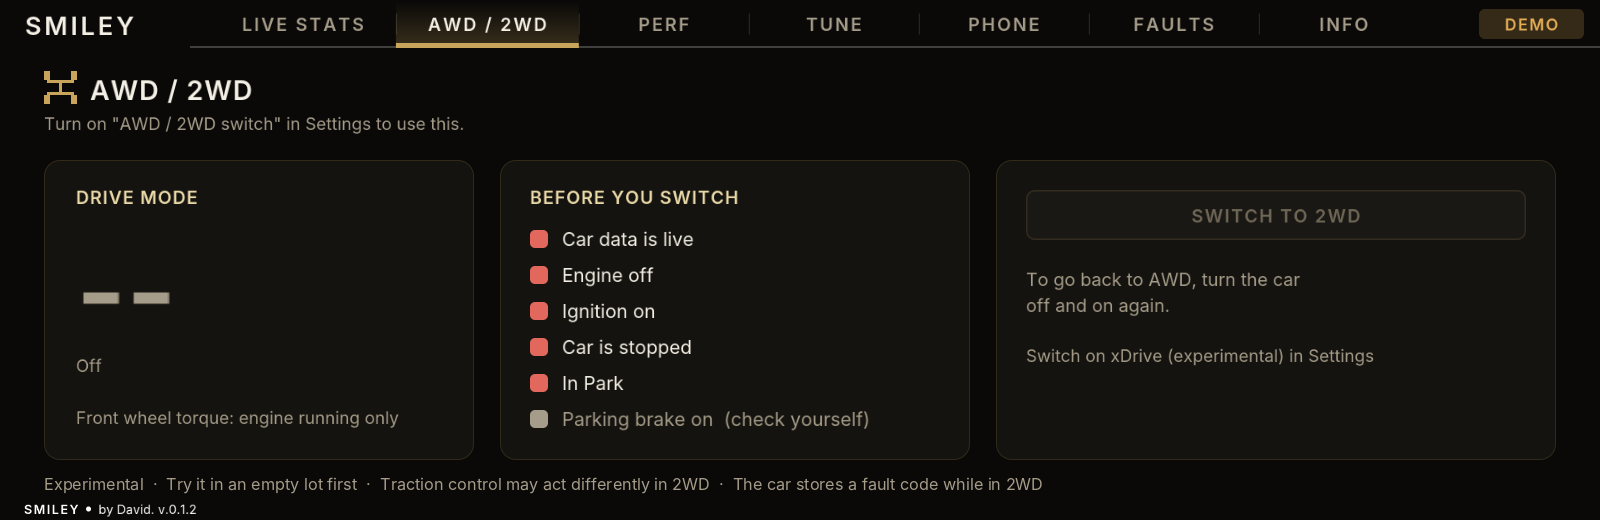
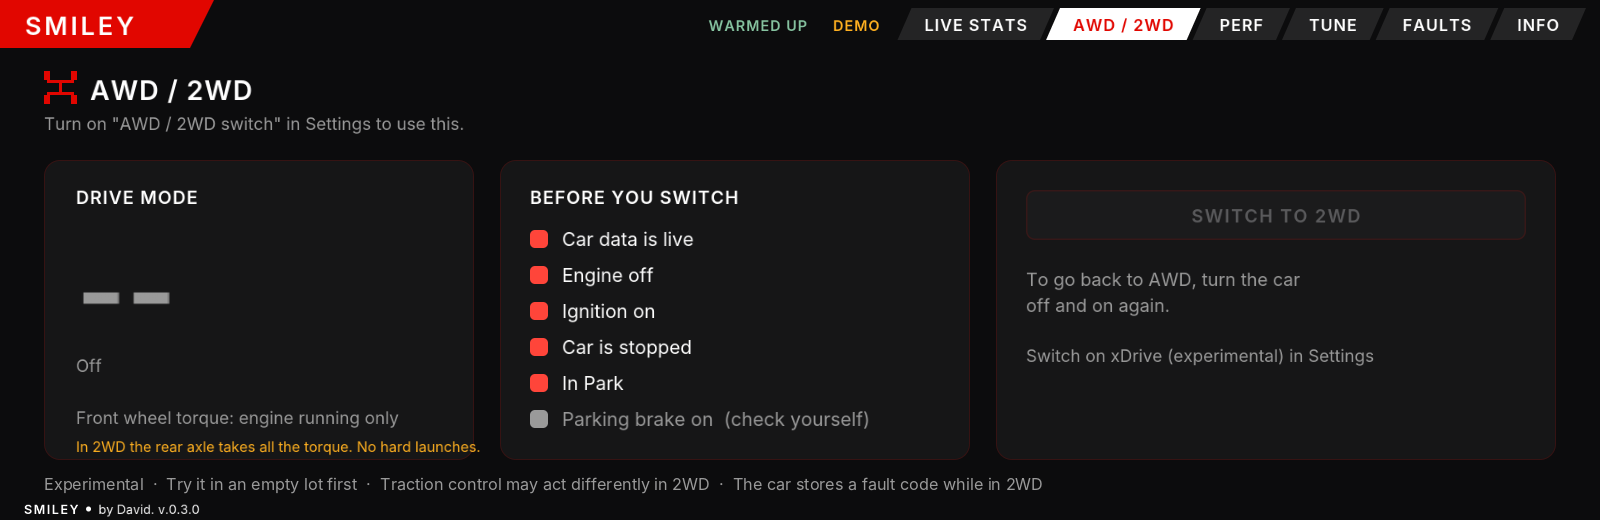
README: Slash as the default look, new screenshots, warm-up timer and Car view additions

diff --git a/README.md b/README.md
@@ -10,7 +10,7 @@ An app for the iDrive 7 head unit (MGU) &nbsp;·&nbsp; Version 0.3.0 &nbsp;·&nb
 
 [Take the tour](#the-tour) &nbsp;·&nbsp; [Themes](#ten-looks) &nbsp;·&nbsp; [Connect / Flash beta](#connect-and-flash-beta) &nbsp;·&nbsp; [Install](#install) &nbsp;·&nbsp; [Read this first](#read-this-first)
 
-<img src="docs/screenshots/live-stats.png" alt="Live Stats: six engine gauges, signal bars for the fast readings and dials for the rest">
+<img src="docs/screenshots/slash.png" alt="Live Stats in the Slash look: the gear on a red slab, six readings beside it">
 
 </div>
 
@@ -34,6 +34,11 @@ screenshots come from the simulation, with demo data.
 
 ### Live Stats
 
+A new install opens on the **Slash** screen shown at the top of this page:
+the gear as tall as the screen, with engine speed, horsepower, boost, torque,
+oil and coolant beside it and the revs as one slanted bar. The Layout button
+steps on to the six-gauge page described here and the other layouts.
+
 Two pages of six gauges, three across and two down. The fast readings (RPM,
 boost, boost target, engine load and torque) are signal bars that light up
 green to red like a phone's signal meter; the rest are round dials with a thick band and their lowest and highest value beside
@@ -54,6 +59,11 @@ scale. Tap anywhere to go back.
 blue while the engine is cold, amber while it warms up, green once it is
 ready.
 
+**Warm-up timer and turbo cool-down.** Beside the warm-up light the header
+shows about how many minutes until the oil is warm and the revs to keep under
+until then. After hard driving it counts down how long to drive gently before
+switching off.
+
 **Smoother gauges.** The fast gauges on screen are asked for together in one
 request, so each one is refreshed more often. If the car does not answer that
 way, the app goes back to asking one at a time by itself.
@@ -65,10 +75,13 @@ way, the app goes back to asking one at a time by itself.
 
 ### Live Stats layouts
 
-Settings → Live Stats layout offers four more ways to see the same readings.
-The six gauges are the default and their page is unchanged. In the other
-layouts a Layout button steps on to the next one and back to the six gauges,
-and a tap on any reading opens it in big number mode.
+Settings → Live Stats layout offers six ways to see the same readings. Slash
+is the default since 0.3.0. A Layout button steps through them in turn (the
+six-gauge page has none: pick another layout in Settings to leave it), and a
+tap on any reading opens it in big number mode.
+
+- **Slash**: the gear on a red slab, six readings and a slanted rev bar.
+- **Six gauges**: the two pages of gauges described above.
 
 - **Cockpit**: one large RPM ring with boost inside it and four readings
   around it.
@@ -76,7 +89,9 @@ and a tap on any reading opens it in big number mode.
 - **Graph view**: the last 30 seconds of each reading as a line.
 - **Car view**: the readings around a top view of a car, with each tyre's
   pressure and temperature, read from the car's own tyre pressure monitor. A
-  tyre well under the car's target pressure turns red.
+  tyre well under the car's target pressure turns red. It also shows the
+  xDrive front and rear torque split and the gearbox oil temperature when the
+  car sends them.
 
 <img src="docs/screenshots/layouts.png" alt="The four extra layouts: Cockpit, Race dash, Graph view and Car view">
 
@@ -197,9 +212,10 @@ switch it off).
 
 ## Ten looks
 
-Pick one under Settings → Theme. Nine are ready-made; the tenth is yours.
-**Christmas Green** is the theme a new install starts with for now, and
-**Christmas Red** is its cranberry-and-gold twin. Both add gently
+Pick one under Settings → Theme. Ten are ready-made; the eleventh is yours.
+**Slash**, racing red cut across black with slanted tabs in the top right
+corner, is the theme a new install starts with since 0.3.0. The tour's
+screenshots show it. **Christmas Green** and **Christmas Red** add gently
 falling snow and, now and then, a small surprise in the empty strip at the
 bottom of Live Stats, Perf and Info: Santa's sleigh, a shooting star, or a
 snowman who peeks up and waves. They never cover a gauge, a button or text,
@@ -207,13 +223,13 @@ and can be switched off under Settings → Christmas surprises. The snow and
 surprises move only with Graphics set to Smooth (GPU); on Basic the theme
 keeps its colours and stays still.
 
-<img src="docs/screenshots/themes.png" alt="The eight themes side by side on the Live Stats page">
+<img src="docs/screenshots/themes.png" alt="Eight of the older themes side by side on the Live Stats page">
 
 | | | | |
 |---|---|---|---|
-| Noir & Champagne | Burgundy & Gold | Amethyst & Gold | Midnight & Gold |
-| Racing Green | Motorsport | Spider Red & Blue | Christmas Green (snow) |
-| Christmas Red (snow) | **Custom** | | |
+| **Slash** (default) | Noir & Champagne | Burgundy & Gold | Amethyst & Gold |
+| Midnight & Gold | Racing Green | Motorsport | Spider Red & Blue |
+| Christmas Green (snow) | Christmas Red (snow) | **Custom** | |
 
 **Custom** builds a theme from three choices in Settings: a main colour, a
 second colour and a background. Twelve colours and four backgrounds give 576
